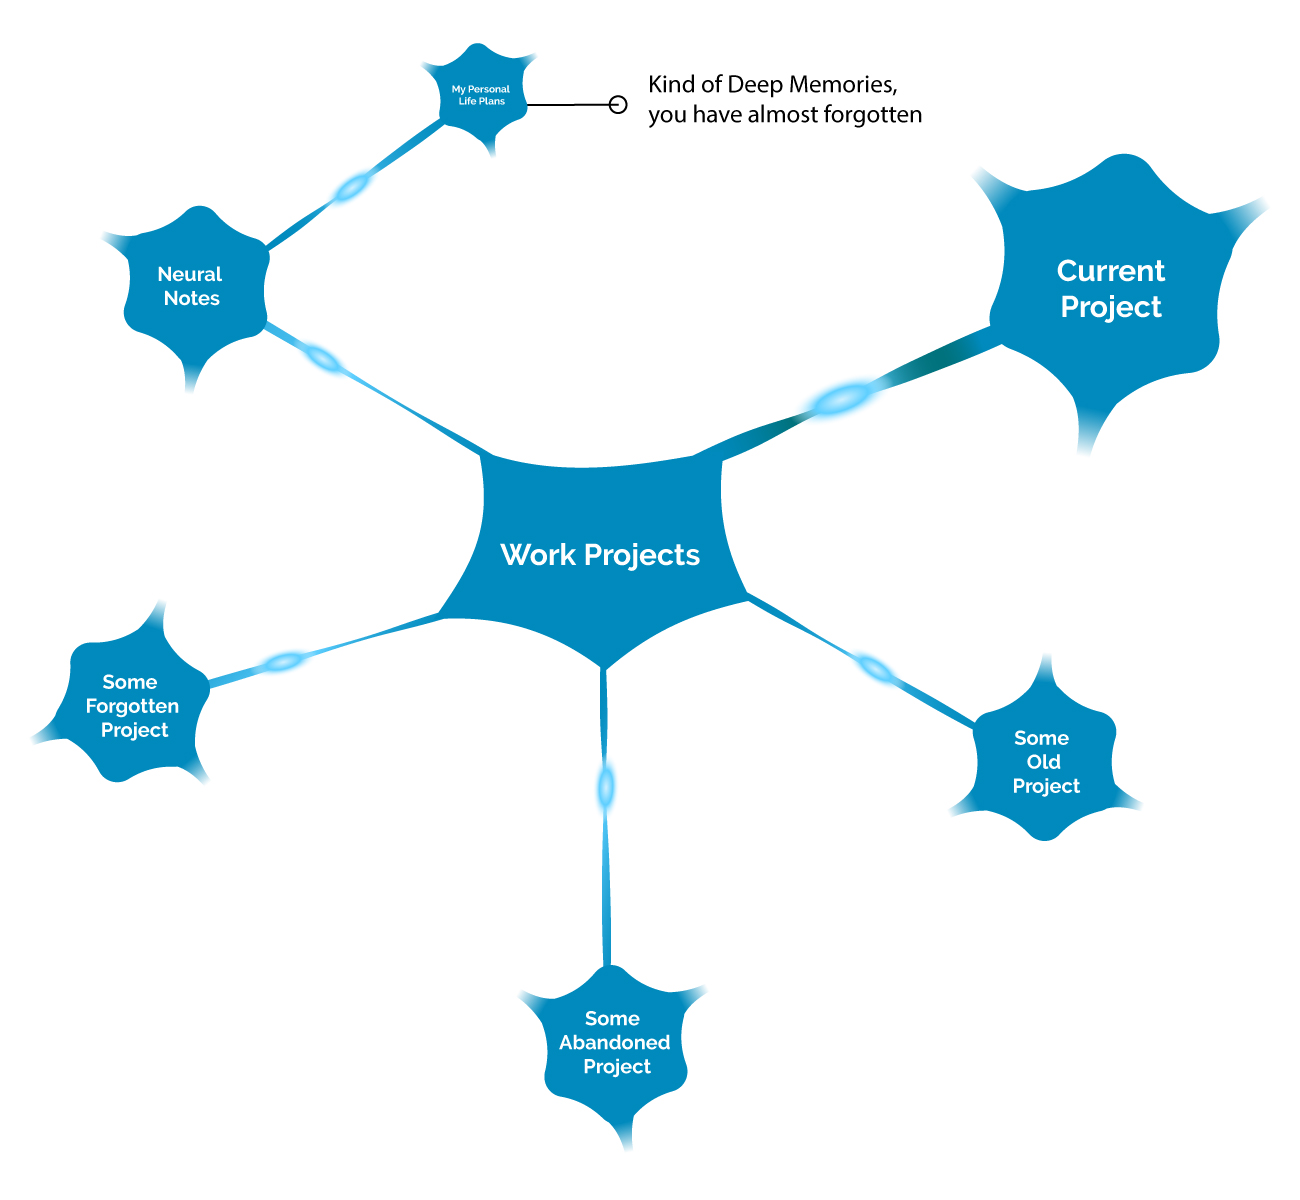
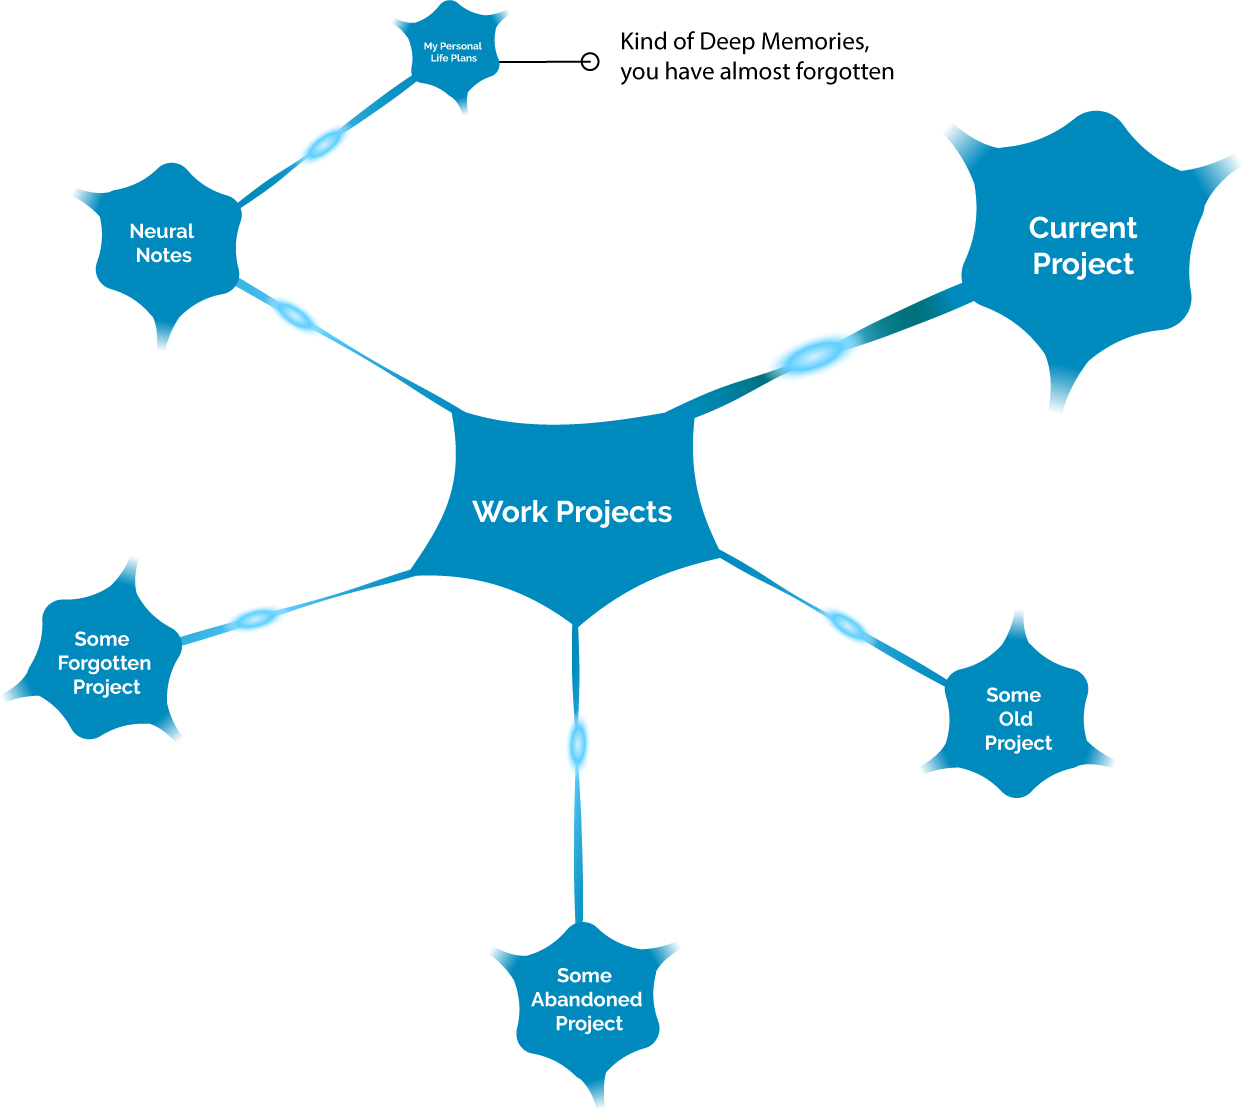
Update main page images

diff --git a/src/ui/login/login.html b/src/ui/login/login.html
@@ -14,14 +14,14 @@
         <p>Your folders &amp; files as a mind map</p>
         <p>Your mind map is stored as folders &amp; file</p>
       </div>
-      <img src="src/ui/login/slide-1.jpg" style="width: 100%; max-width: 800px;"/>
+      <img src="src/ui/login/slide-1.jpg" style="width: 100%; max-width: 750px;"/>
     </div>
     <div class="slide">
       <h2>Explore subfolders by moving screen around</h2>
       <div class="slide-text">
         <p>You can see the entire structure, not just one level</p>
       </div>
-      <img src="src/ui/login/slide-2.jpg" style="width: 100%; max-width: 800px;"/>
+      <img src="src/ui/login/slide-2.jpg" style="width: 100%; max-width: 750px;"/>
     </div>
     <div class="slide">
       <h2>Frequently used folders are BIGGER</h2>
@@ -29,7 +29,7 @@
         <p>Every time you use a folder it becomes bigger</p>
         <p>Old files you never use get smaller, drowning into deep memory</p>
       </div>
-      <img src="src/ui/login/slide-3.jpg" style="width: 100%; max-width: 800px;"/>
+      <img src="src/ui/login/slide-3.jpg" style="width: 100%; max-width: 750px;"/>
     </div>
     <div class="slide">
       <h2>Single place for notes and files</h2>
@@ -37,7 +37,7 @@
         <p>In NeuralNotes, every folder has a text file for the notes</p>
         <p>It is displayed in a built-in text editor when a folder is selected</p>
       </div>
-      <img src="src/ui/login/slide-4.jpg" style="width: 100%; max-width: 800px;"/>
+      <img src="src/ui/login/slide-4.jpg" style="width: 100%; max-width: 750px;"/>
     </div>
   </div>
 
